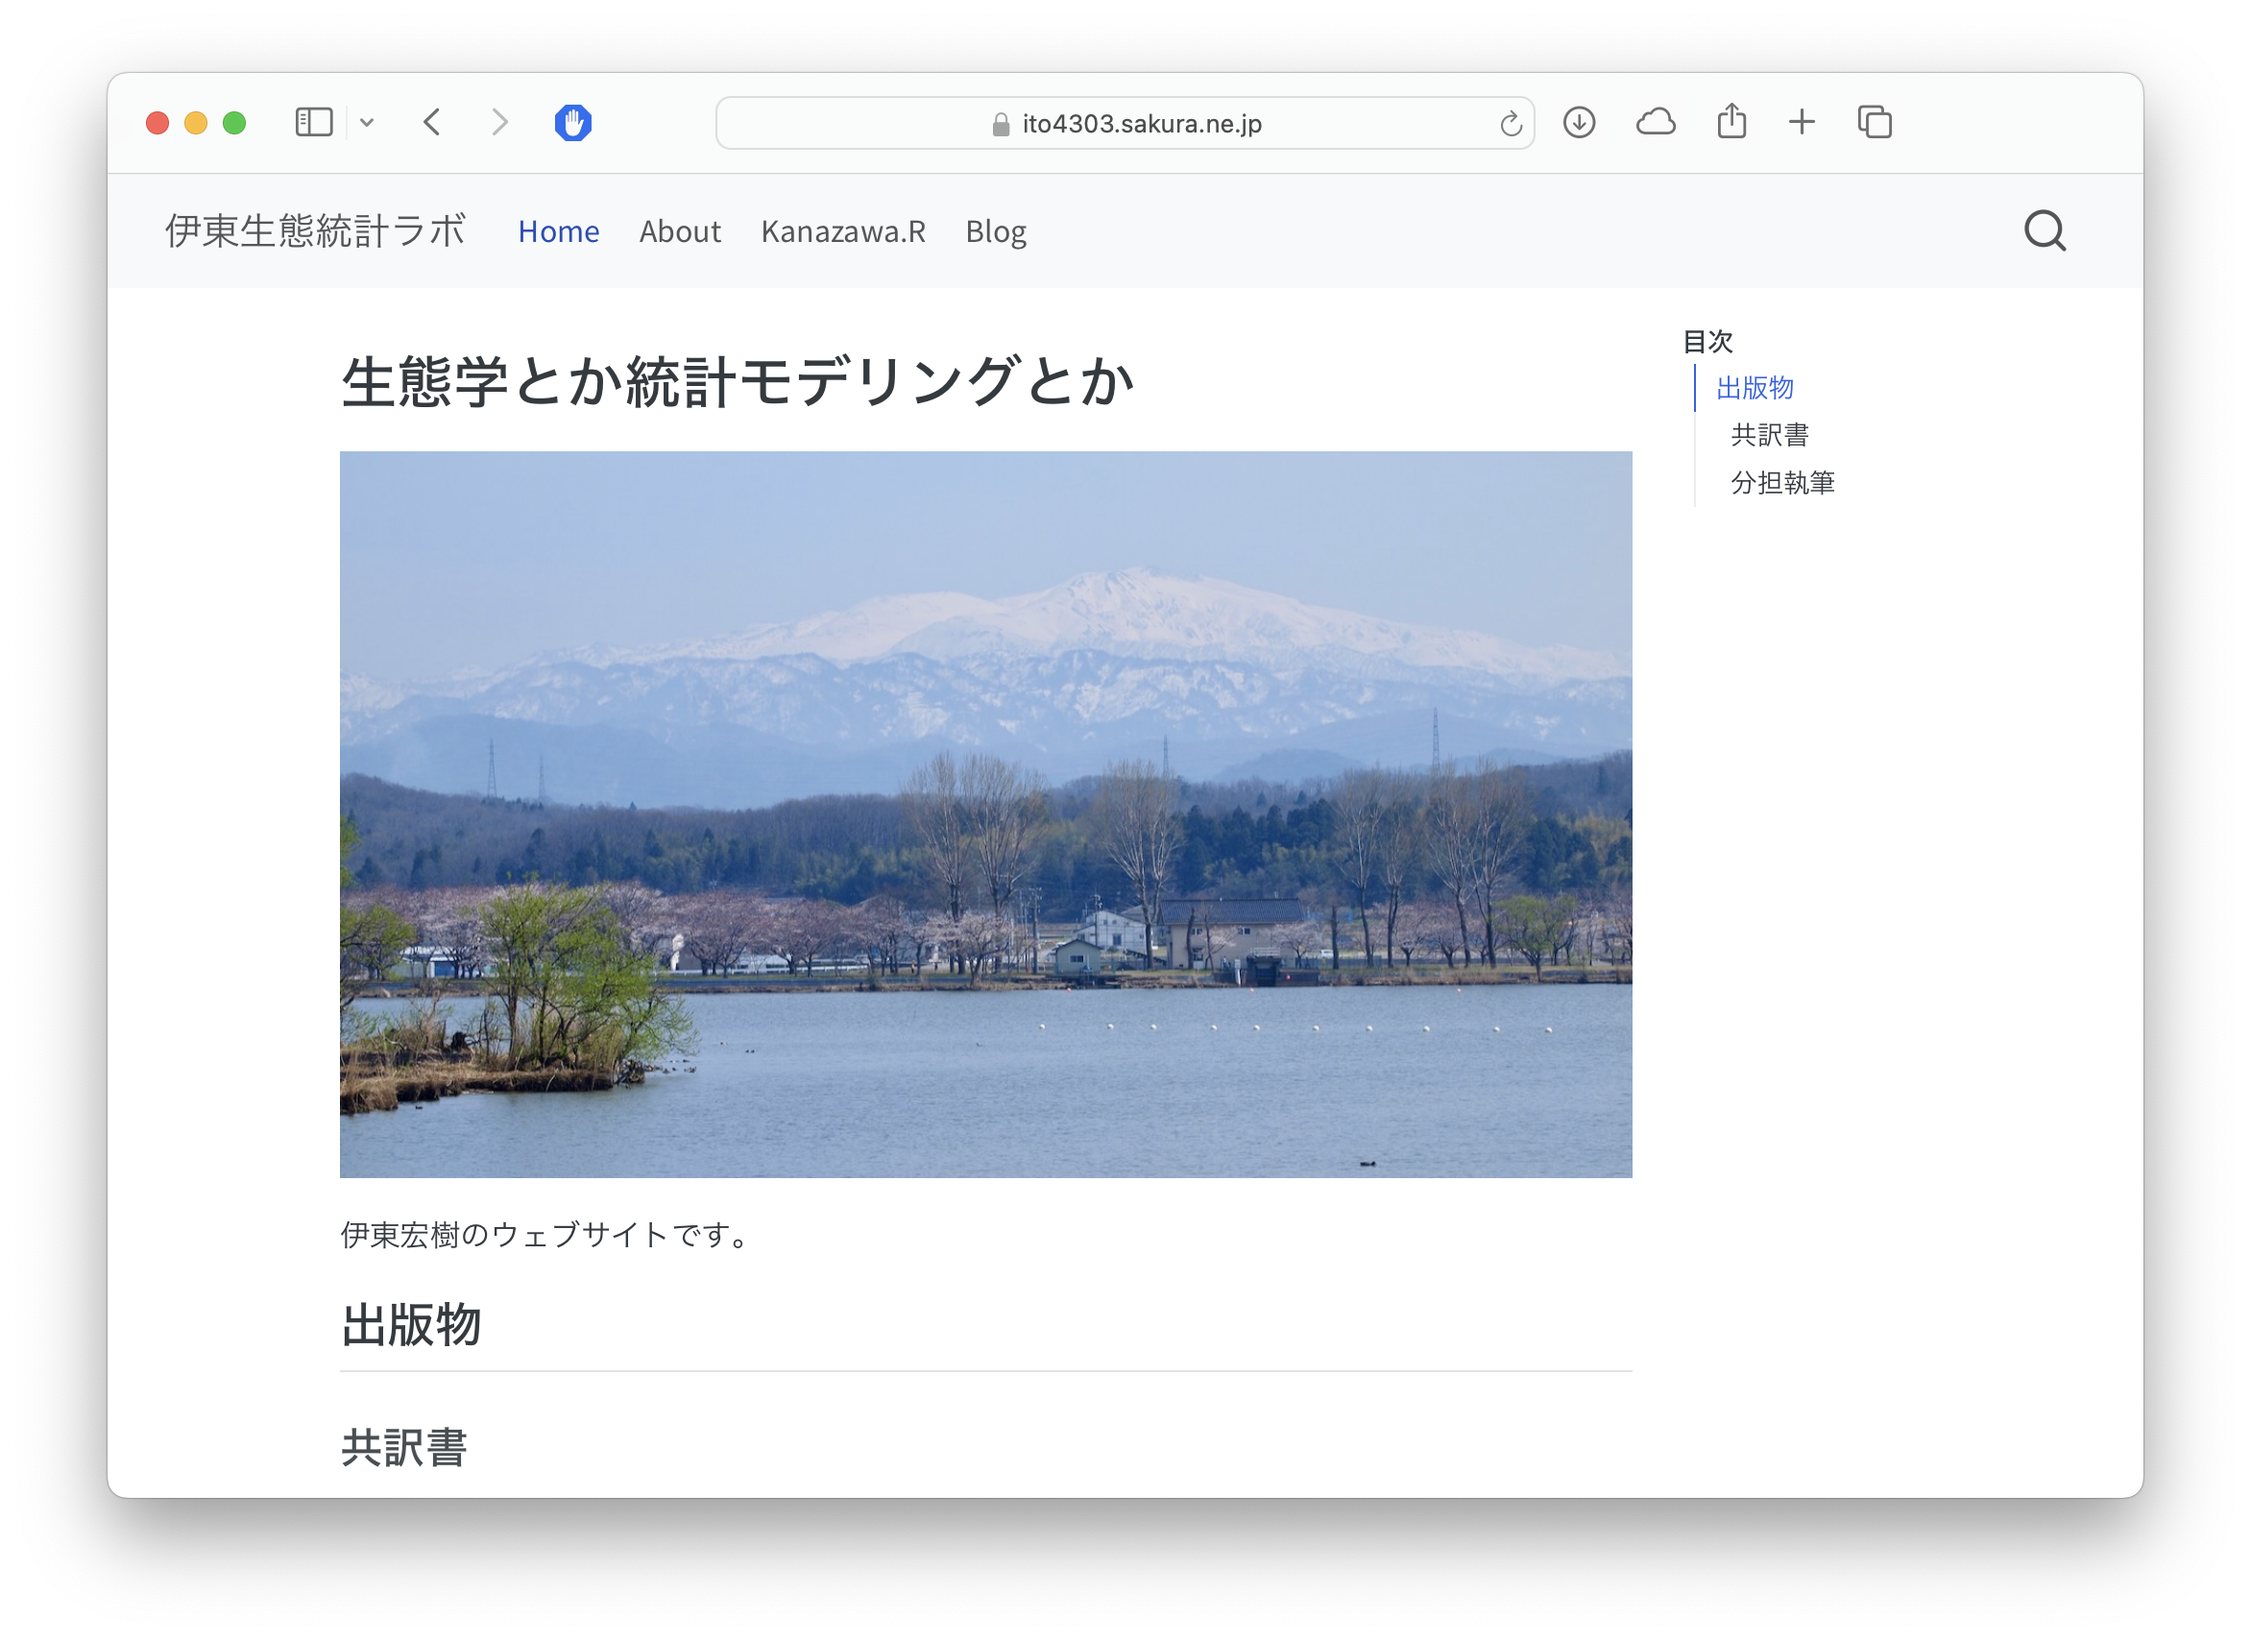
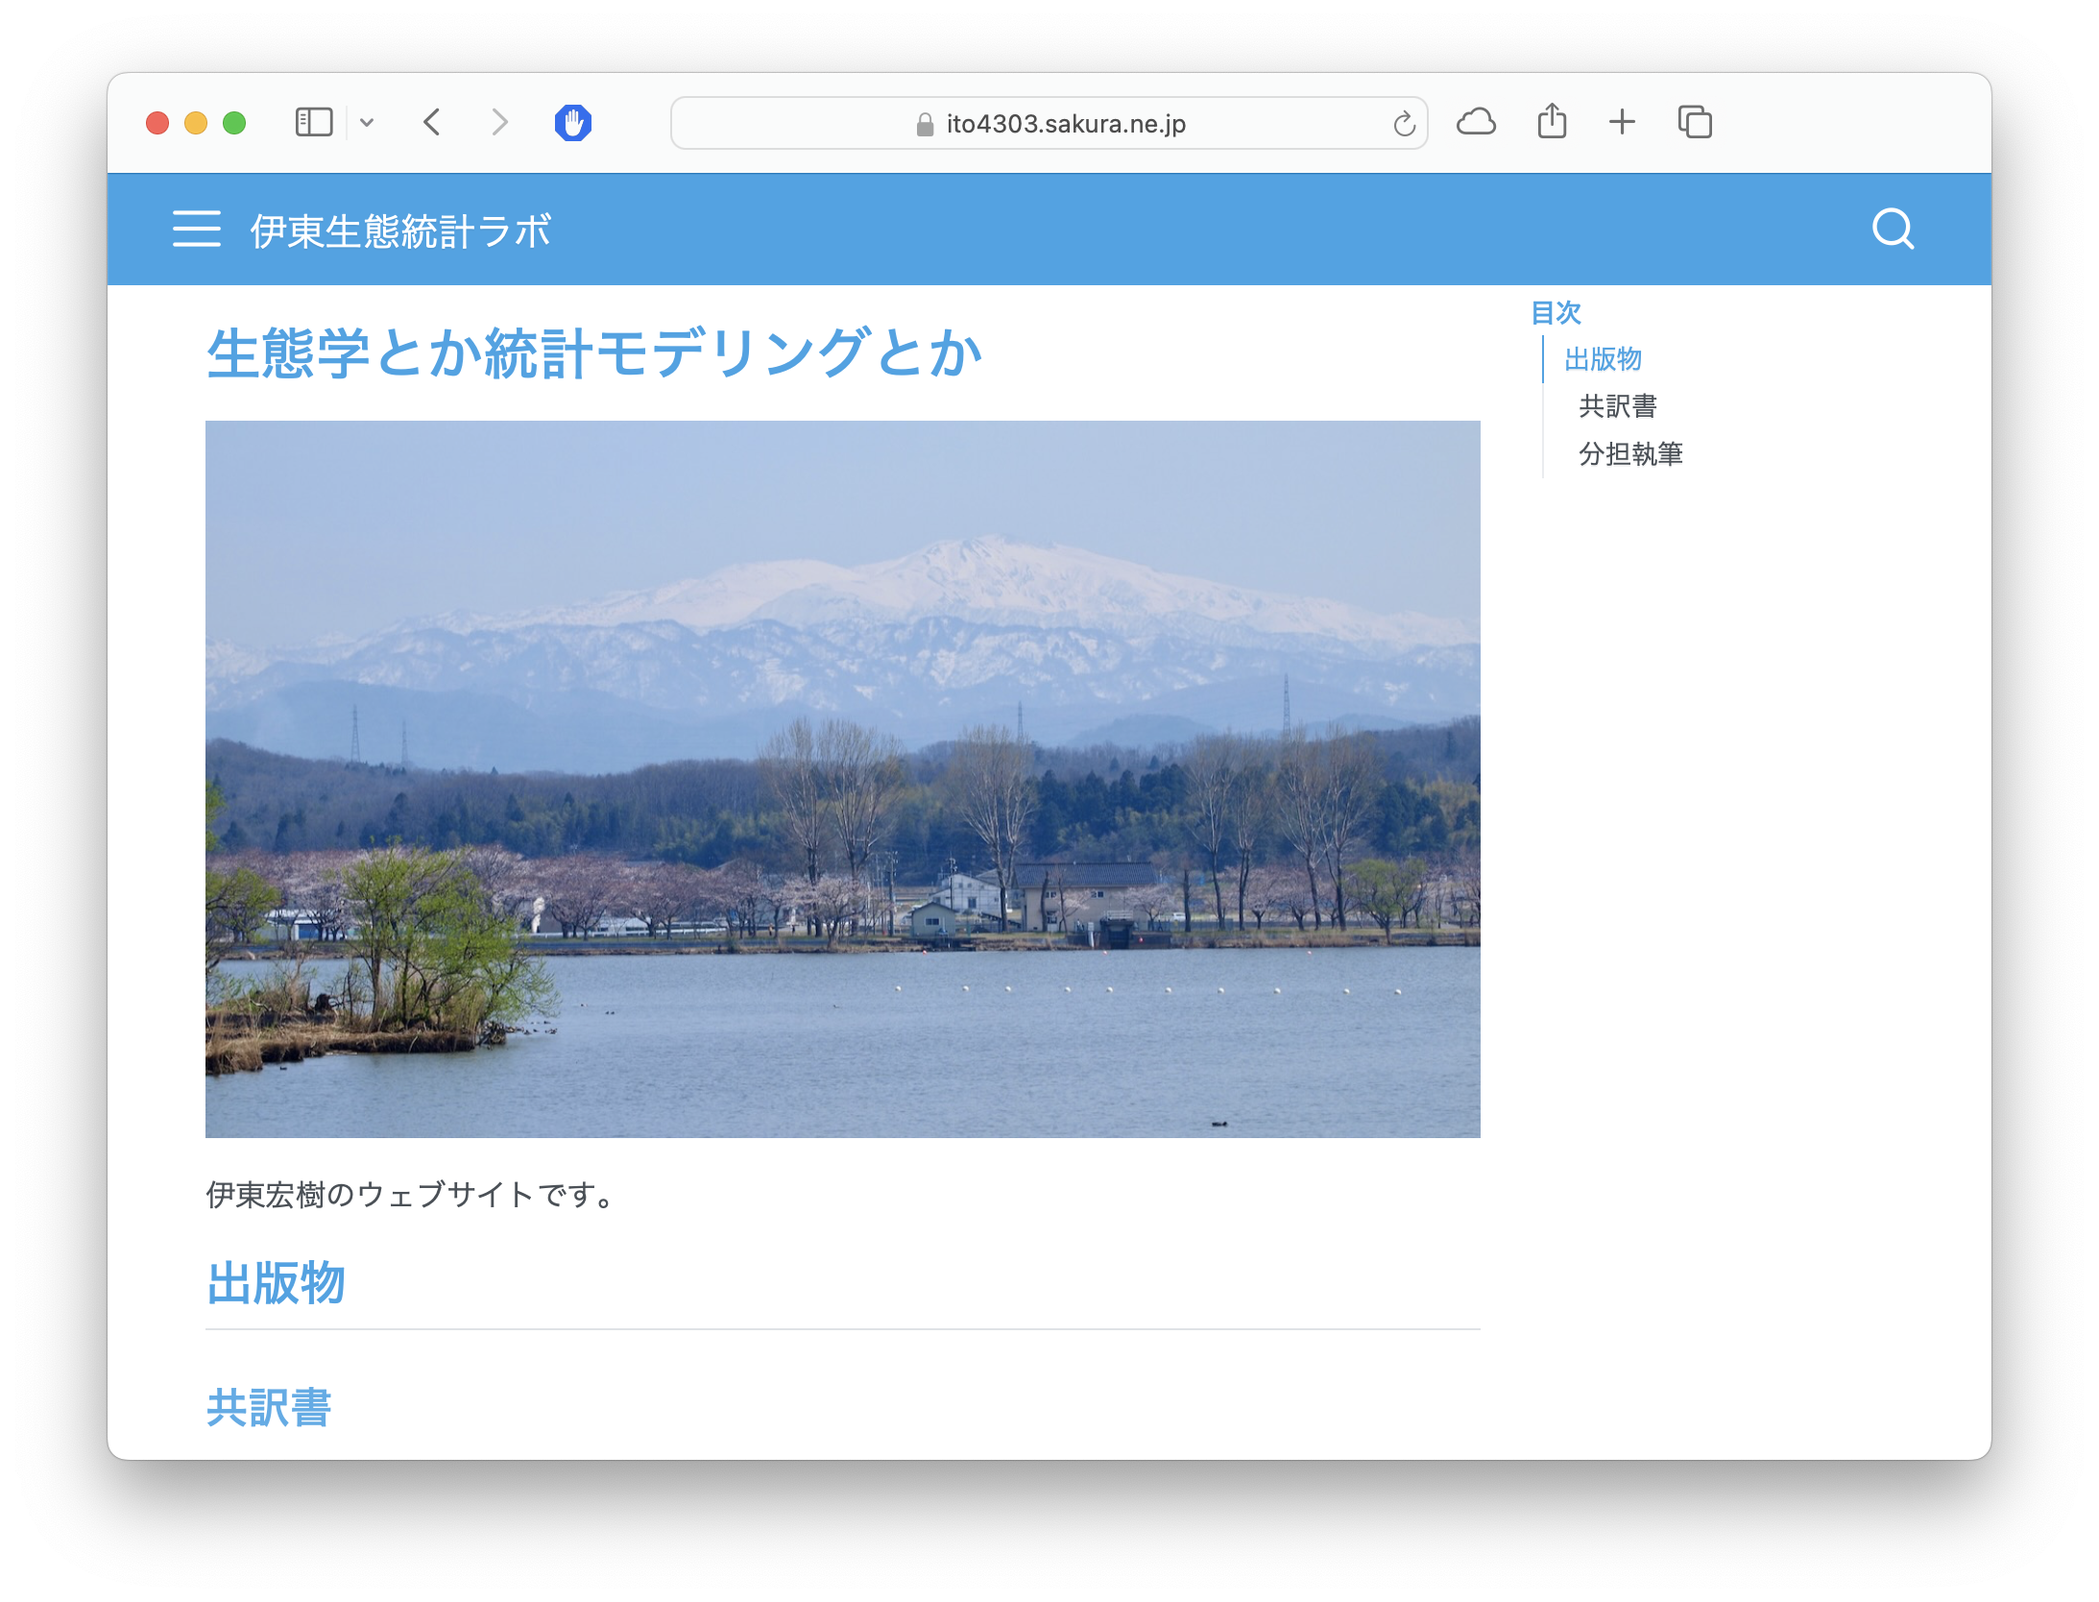
font settings

Changed region(s): [[0.0311, 0.0624, 0.9643, 0.9041], [0.3111, 0.3429, 0.4044, 0.4365], [0.2177, 0.4053, 0.2489, 0.4365]]

diff --git a/custom.scss b/custom.scss
@@ -1,0 +1,7 @@
+/*-- scss:defaults --*/
+
+// fonts
+$font-family-sans-serif: "BIZ UDP Gothic", "Noto Sans JP", "Source Han Sans",
+  sans-serif;
+$font-family-monospace: "BIZ UD Gothic", monospace;
+  
